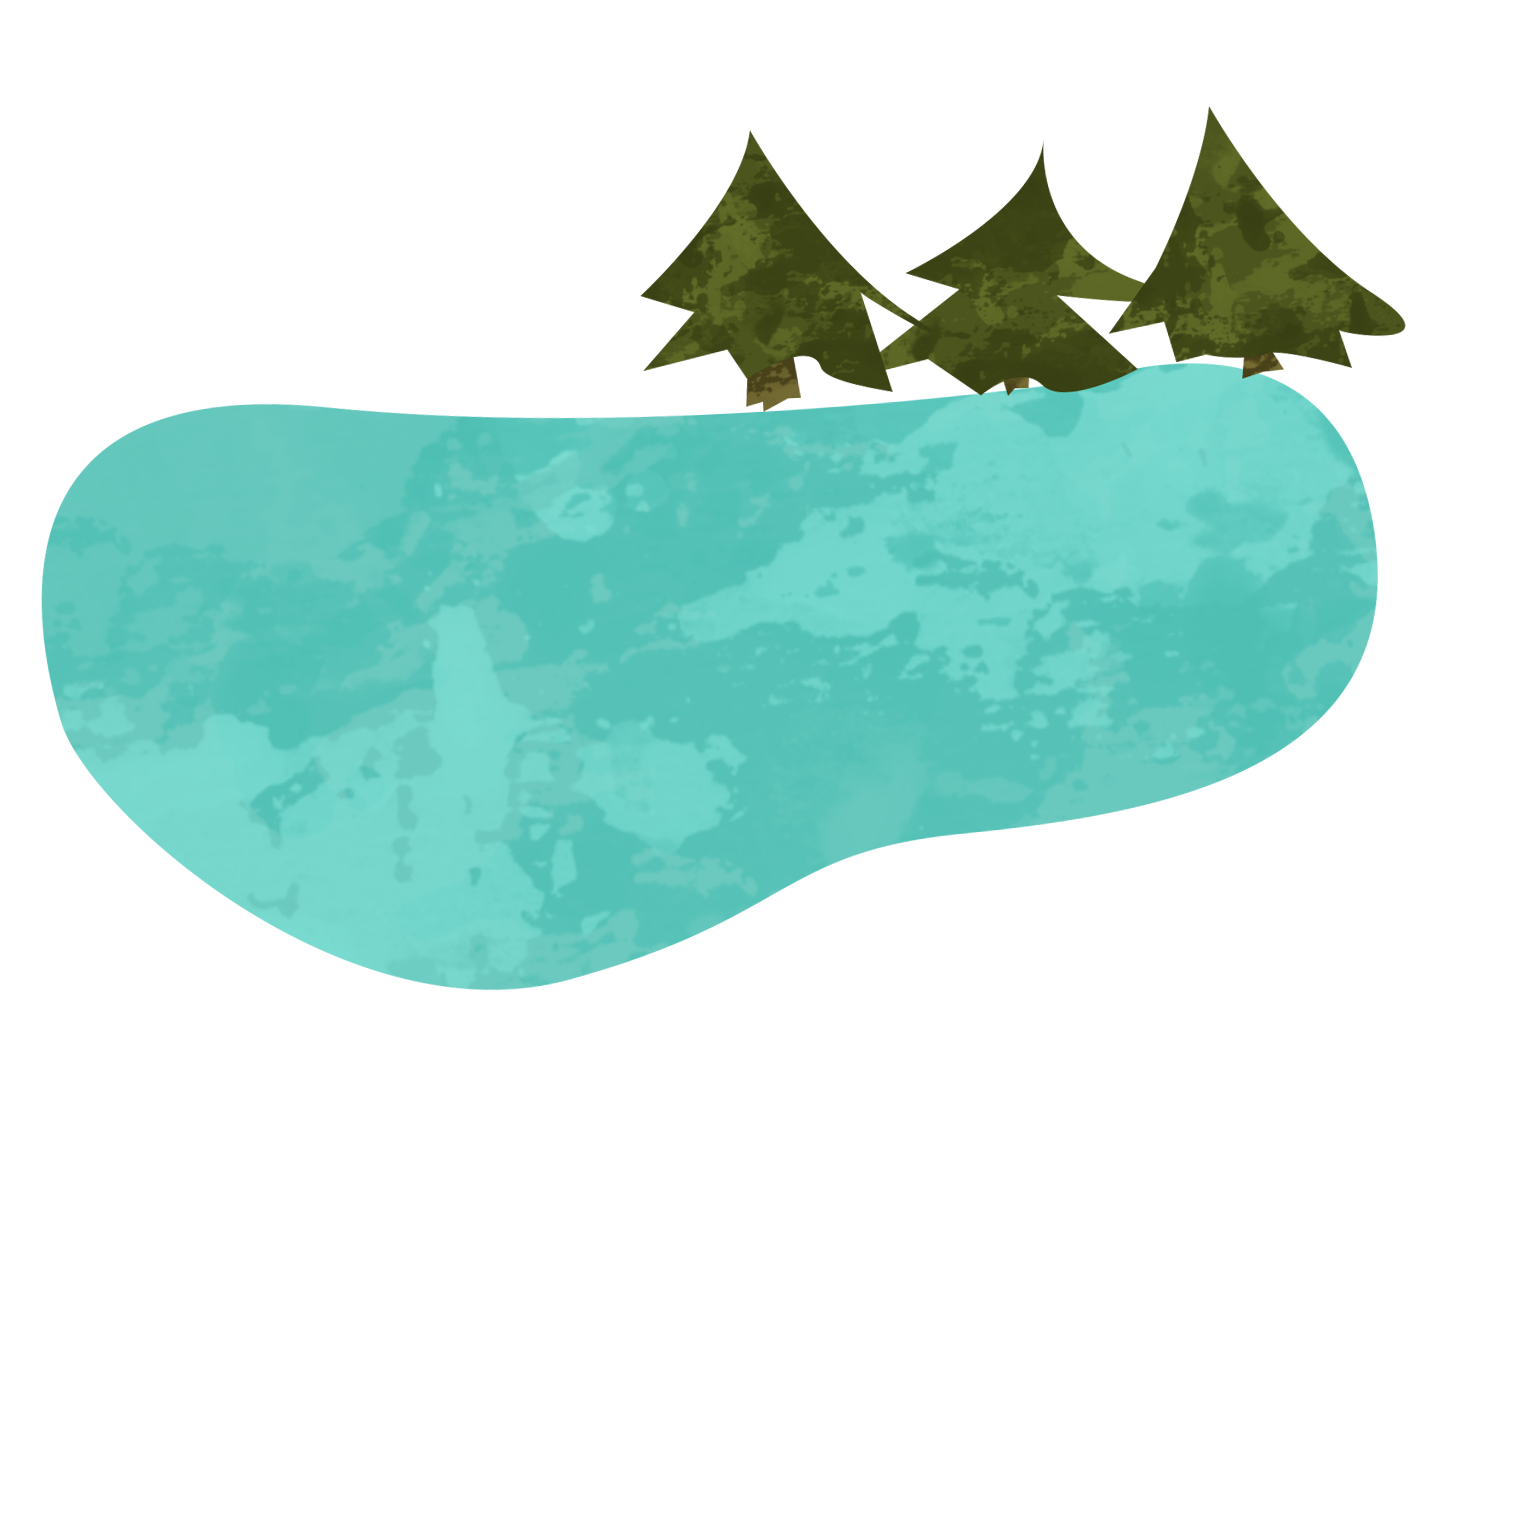
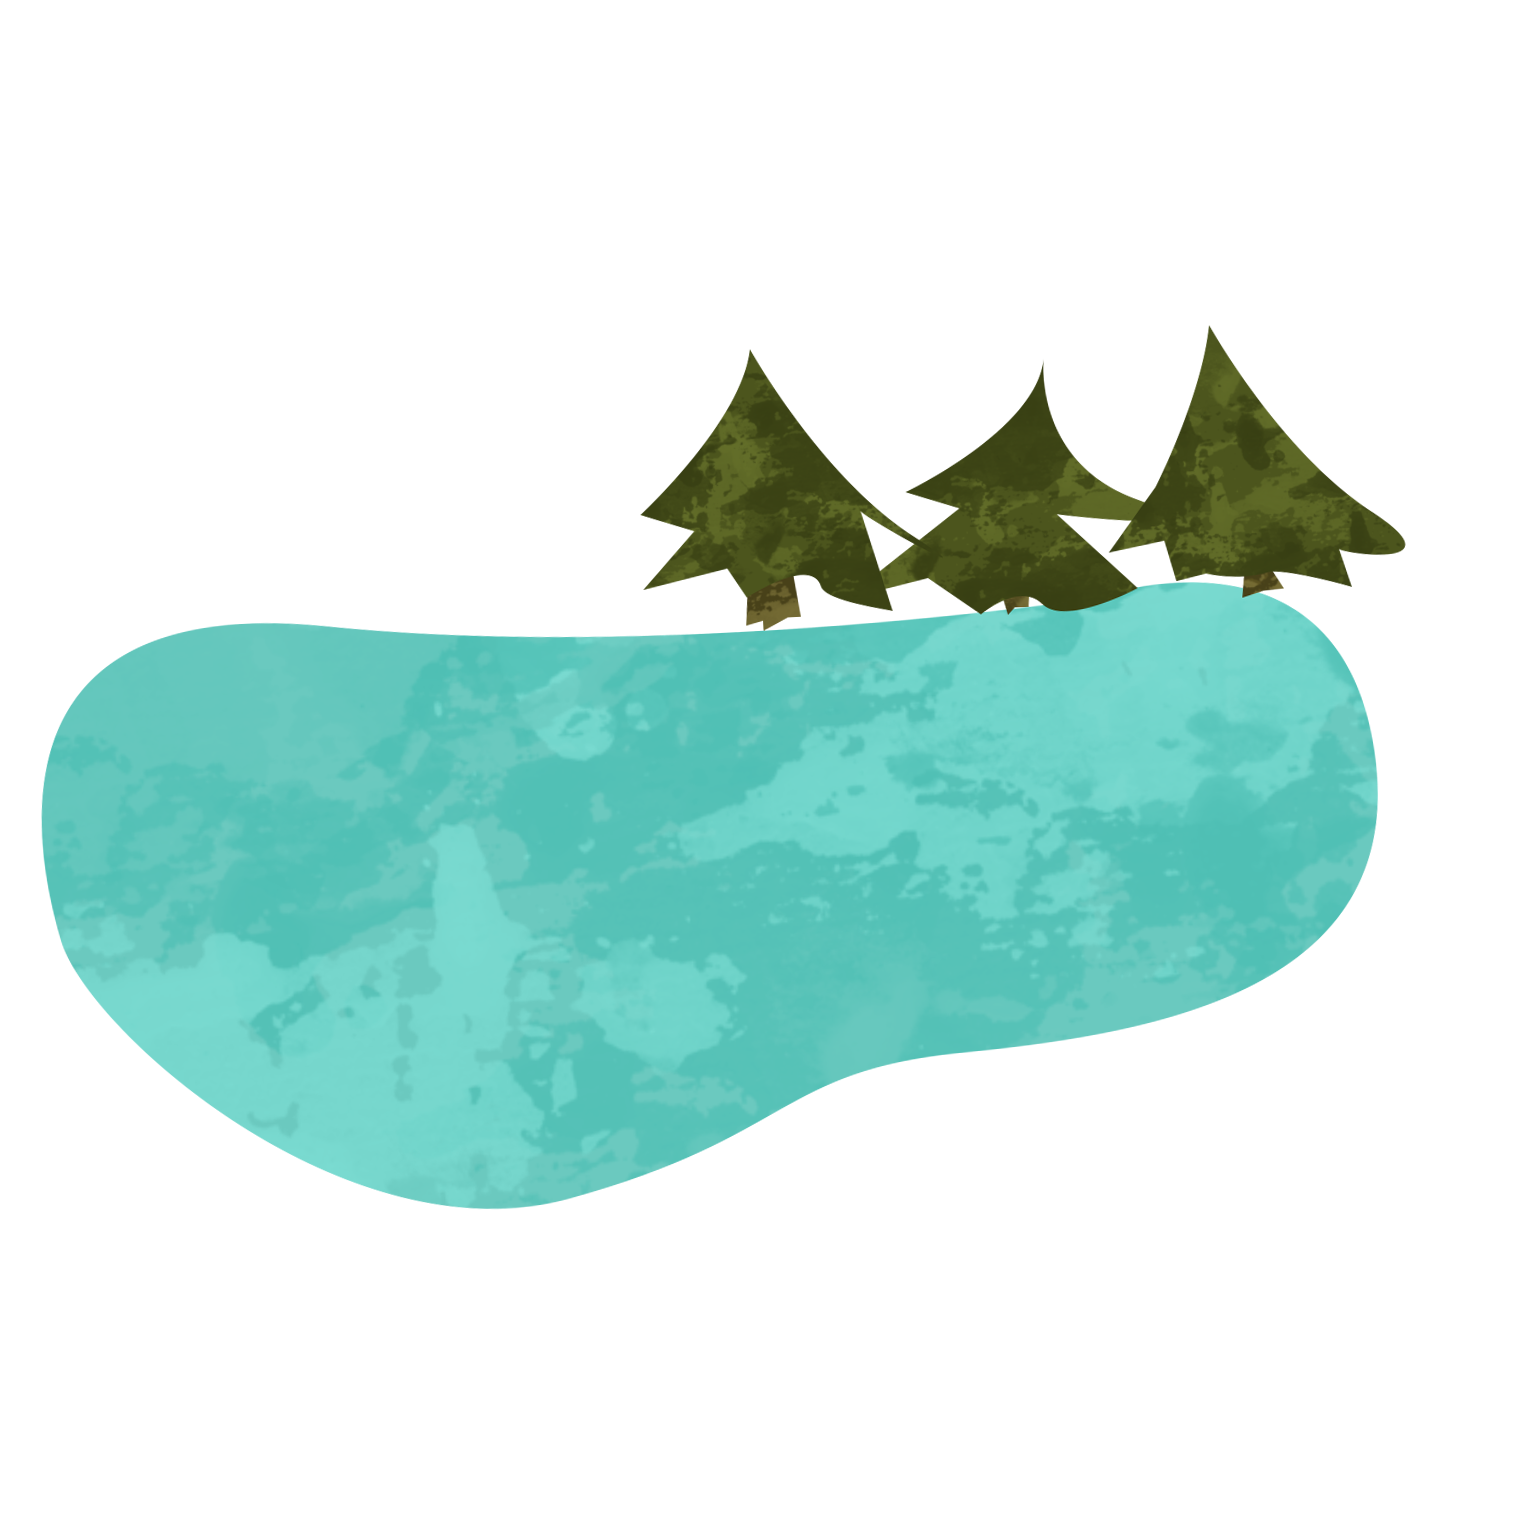
schwammigerer parallax effekt (sehr performancelastig)

diff --git a/assets/css/mh-styles.css b/assets/css/mh-styles.css
@@ -146,6 +146,7 @@ main#content {
   border: none;
   background-color: transparent;
   z-index: 10;
+  pointer-events: all;
 }
 
 
@@ -175,14 +176,14 @@ main#content {
 /*places */
 .grossglockner,
 .grossglockner + .box {
-  top: 66%;         /*Dank javascript auf hintergundbild bezogen*/
-  left: 44%;
+  top: 73%;         /*Dank javascript auf hintergundbild bezogen*/
+  left: 45%;
 }
 
 .gruenersee,
 .gruenersee + .box {
-  top: 55%;
-  left: 67%;
+  top: 59%;
+  left: 69%;
 }
 
 
@@ -201,11 +202,15 @@ button.info img {
 }
 
 #info {
+  top: 0;
+  left: 0;
+  width: 100%;
+  height: 100%;
   position: absolute;
   display: flex;
   justify-content: center;
   align-items: center;
-  height: 90%;
+  pointer-events: none;
 }
 
 #content div.infobox {
@@ -251,11 +256,10 @@ button.info img {
 .box.fullScreen{
   /* Your override styles:  */
   border-radius: 0;
-  left: 50% !important;
-  top: 50% !important;
-  height: 50%;
+  left: 0 !important;
+  top: 0 !important;
+  height: 100%;
   width: 100%;
-  transform: translate(-50%, -50%);
   z-index: 10;
 }
 
@@ -269,6 +273,7 @@ button.info img {
   height: 100px;
   z-index: 1;
   opacity: 1;
+  transform: translate(-50%, -50%);
 }
 
 #close-canvas {

diff --git a/assets/js/bw-canvas-modules/bw-parallax.js b/assets/js/bw-canvas-modules/bw-parallax.js
@@ -54,8 +54,9 @@ bw.parallax = (function ($) {
             i = 0;
 
         for (var layer in layers) {
-            layers[layer].x = initLayerPos[i].x + horizontalValue / dampingFactors[i];
-            layers[layer].y = initLayerPos[i].y + verticalValue / dampingFactors[i];
+            createjs.Tween.get(layers[layer], {override: true}).to({x: initLayerPos[i].x + horizontalValue / dampingFactors[i], y: initLayerPos[i].y + verticalValue / dampingFactors[i]}, 400, createjs.Ease.quadOut);
+            //layers[layer].x = initLayerPos[i].x + horizontalValue / dampingFactors[i];
+            //layers[layer].y = initLayerPos[i].y + verticalValue / dampingFactors[i];
             i++;
         }
 

diff --git a/assets/css/bw-styles.css b/assets/css/bw-styles.css
@@ -2,7 +2,7 @@
 
 /*map icons*/
 .icon:hover {
-    transform: scale(1.1);
+    transform: scale(1.1) translate(-50%, -50%);
     /*box-shadow: 0 0 5px 5px #888888;*/
     cursor: pointer;
 }
